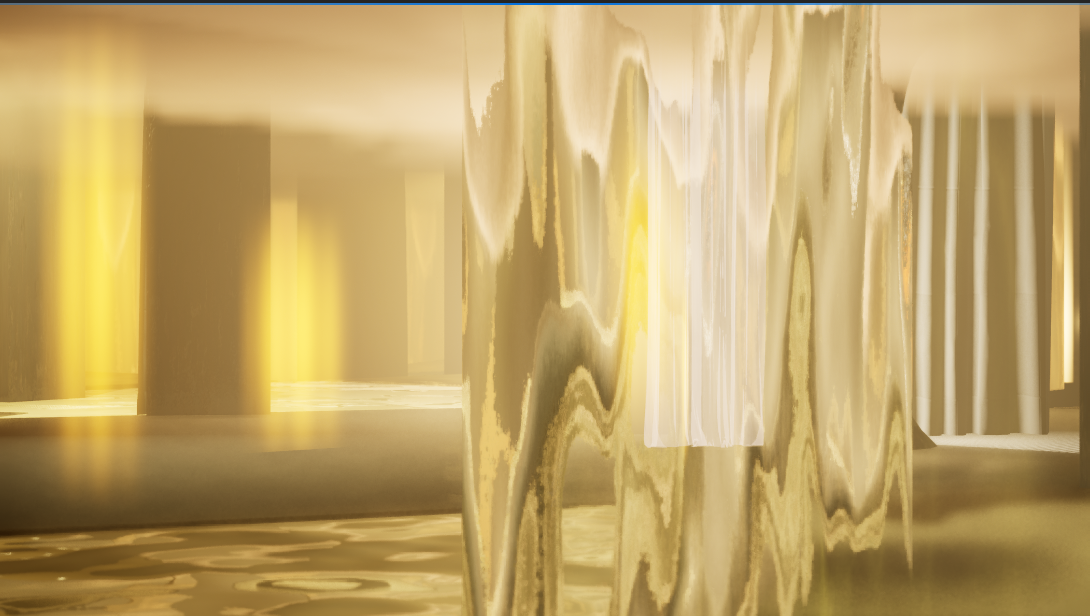
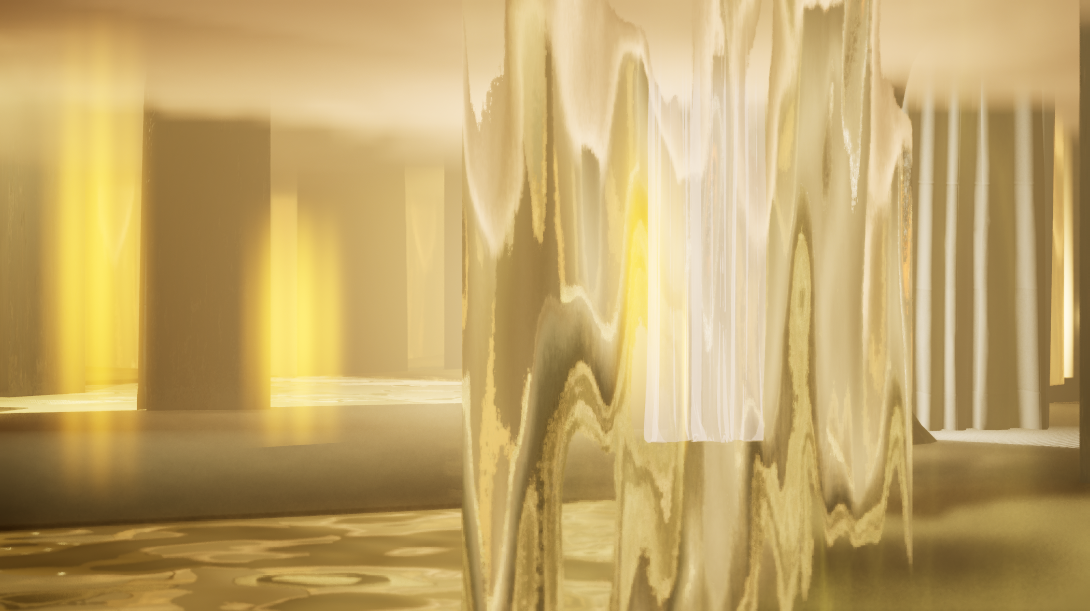
Polish light/dark UI and refresh portfolio header.
Soften light-mode colors, fix thumbnail framing, improve mobile header layout, and update About tools.

diff --git a/index.html b/index.html
@@ -27,27 +27,27 @@
 	<body>
 		<header class="site-header" role="banner">
 			<div class="container">
-				<h1 class="site-title">Christina Cappelli</h1>
-				<div class="header-right">
+				<div class="header-brand">
+					<h1 class="site-title">Christina Cappelli</h1>
 					<p class="site-tagline">
 						<a href="index.html" class="is-active">Creative Technologist</a>
 						<!-- <a href="design.html">Designer</a> -->
 					</p>
-					<button
-						type="button"
-						class="theme-toggle"
-						aria-label="Toggle light and dark mode"
-						title="Toggle theme"
-					>
-						<svg class="icon-moon" viewBox="0 0 24 24" aria-hidden="true" fill="none" stroke="currentColor" stroke-width="1.8" stroke-linecap="round" stroke-linejoin="round">
-							<path d="M21 14.5A8.5 8.5 0 0 1 9.5 3 7 7 0 1 0 21 14.5z"></path>
-						</svg>
-						<svg class="icon-sun" viewBox="0 0 24 24" aria-hidden="true" fill="none" stroke="currentColor" stroke-width="1.8" stroke-linecap="round" stroke-linejoin="round">
-							<circle cx="12" cy="12" r="4"></circle>
-							<path d="M12 2v2M12 20v2M4.9 4.9l1.4 1.4M17.7 17.7l1.4 1.4M2 12h2M20 12h2M4.9 19.1l1.4-1.4M17.7 6.3l1.4-1.4"></path>
-						</svg>
-					</button>
 				</div>
+				<button
+					type="button"
+					class="theme-toggle"
+					aria-label="Toggle light and dark mode"
+					title="Toggle theme"
+				>
+					<svg class="icon-moon" viewBox="0 0 24 24" aria-hidden="true" fill="none" stroke="currentColor" stroke-width="1.8" stroke-linecap="round" stroke-linejoin="round">
+						<path d="M21 14.5A8.5 8.5 0 0 1 9.5 3 7 7 0 1 0 21 14.5z"></path>
+					</svg>
+					<svg class="icon-sun" viewBox="0 0 24 24" aria-hidden="true" fill="none" stroke="currentColor" stroke-width="1.8" stroke-linecap="round" stroke-linejoin="round">
+						<circle cx="12" cy="12" r="4"></circle>
+						<path d="M12 2v2M12 20v2M4.9 4.9l1.4 1.4M17.7 17.7l1.4 1.4M2 12h2M20 12h2M4.9 19.1l1.4-1.4M17.7 6.3l1.4-1.4"></path>
+					</svg>
+				</button>
 			</div>
 		</header>
 
@@ -91,7 +91,7 @@
 
 				<!-- IMAGINARY SPACES -->
 				<article class="project-card clickable-thumb" data-project="imaginary_spaces">
-					<div class="thumb" aria-hidden="true" style="background-image: url('./Tech/imaginary spaces_liveVR/environments/live/cineCam3.png');"></div>
+					<div class="thumb" aria-hidden="true" style="background-image: url('./Tech/imaginary%20spaces_liveVR/environments/live/cineCam3.png?v=2');"></div>
 					<h3 class="project-title">Imaginary Spaces</h3>
 					<p class="project-desc">In-progress Unreal world-building for live performance and VR — process studies in environment, camera, and light.</p>
 					<ul class="project-tags">
@@ -251,7 +251,7 @@
 					My work explores obscured architectures of life and investigates how unseen systems shape perception through research-driven, speculative approaches. Using generative processes, computation, and mixed media, I focus on patterns we tend to overlook—those buried in scale, hidden in plain sight, or unfamiliar by nature.
 				</p>
 				<p>
-					With a background in media production, photography, and technology, I approach storytelling through both visual fluency and systems thinking. My tools range from JavaScript, TouchDesigner, and generative AI to hands-on methods like material exploration, rapid prototyping, and mixed media construction. By taking an interdisciplinary approach, I turn abstract research into something people can move through, sense, and interpret for themselves—bridging technical concepts with lived experience.
+					With a background in media production, photography, and technology, I approach storytelling through both visual fluency and systems thinking. My tools range from JavaScript, TouchDesigner, Unreal Engine 5, and Blender to hands-on methods like material exploration, rapid prototyping, and mixed media construction. By taking an interdisciplinary approach, I turn abstract research into something people can move through, sense, and interpret for themselves—bridging technical concepts with lived experience.
 				</p>
 				<p>
 					My work has been supported by the National Science Foundation, NYU’s Entrepreneurial Institute, and the NYC Future Manufacturing Collective, and presented through platforms at the Berggruen Institute, Genspace, and New York University. Alongside my studio practice, I’ve worked as a photographer on international campaigns across England, Ireland, and Spain, and produced content for television networks like Lifetime, Travel Channel, and MTV.

diff --git a/production.html b/production.html
@@ -27,28 +27,28 @@
 	<body>
 	<header class="site-header" role="banner">
 			<div class="container">
-				<h1 class="site-title"><a href="index.html">Christina Cappelli</a></h1>
-				<div class="header-right">
+				<div class="header-brand">
+					<h1 class="site-title"><a href="index.html">Christina Cappelli</a></h1>
 					<p class="site-tagline">
 						<a href="index.html">Technologist</a> |
 						<a href="production.html" class="is-active" style="color: blue;">Producer</a>
 						<!-- <a href="design.html">Designer</a> -->
 					</p>
-					<button
-						type="button"
-						class="theme-toggle"
-						aria-label="Toggle light and dark mode"
-						title="Toggle theme"
-					>
-						<svg class="icon-moon" viewBox="0 0 24 24" aria-hidden="true" fill="none" stroke="currentColor" stroke-width="1.8" stroke-linecap="round" stroke-linejoin="round">
-							<path d="M21 14.5A8.5 8.5 0 0 1 9.5 3 7 7 0 1 0 21 14.5z"></path>
-						</svg>
-						<svg class="icon-sun" viewBox="0 0 24 24" aria-hidden="true" fill="none" stroke="currentColor" stroke-width="1.8" stroke-linecap="round" stroke-linejoin="round">
-							<circle cx="12" cy="12" r="4"></circle>
-							<path d="M12 2v2M12 20v2M4.9 4.9l1.4 1.4M17.7 17.7l1.4 1.4M2 12h2M20 12h2M4.9 19.1l1.4-1.4M17.7 6.3l1.4-1.4"></path>
-						</svg>
-					</button>
 				</div>
+				<button
+					type="button"
+					class="theme-toggle"
+					aria-label="Toggle light and dark mode"
+					title="Toggle theme"
+				>
+					<svg class="icon-moon" viewBox="0 0 24 24" aria-hidden="true" fill="none" stroke="currentColor" stroke-width="1.8" stroke-linecap="round" stroke-linejoin="round">
+						<path d="M21 14.5A8.5 8.5 0 0 1 9.5 3 7 7 0 1 0 21 14.5z"></path>
+					</svg>
+					<svg class="icon-sun" viewBox="0 0 24 24" aria-hidden="true" fill="none" stroke="currentColor" stroke-width="1.8" stroke-linecap="round" stroke-linejoin="round">
+						<circle cx="12" cy="12" r="4"></circle>
+						<path d="M12 2v2M12 20v2M4.9 4.9l1.4 1.4M17.7 17.7l1.4 1.4M2 12h2M20 12h2M4.9 19.1l1.4-1.4M17.7 6.3l1.4-1.4"></path>
+					</svg>
+				</button>
 			</div>
 		</header>
 

diff --git a/design.html b/design.html
@@ -27,28 +27,28 @@
 	<body>
 		<header class="site-header" role="banner">
 			<div class="container">
-				<h1 class="site-title"><a href="index.html">Christina Cappelli</a></h1>
-				<div class="header-right">
+				<div class="header-brand">
+					<h1 class="site-title"><a href="index.html">Christina Cappelli</a></h1>
 					<p class="site-tagline">
 						<a href="index.html">Technologist</a> |
 						<a href="production.html">Producer</a> |
 						<a href="design.html" class="is-active" style="color: red;">Designer</a>
 					</p>
-					<button
-						type="button"
-						class="theme-toggle"
-						aria-label="Toggle light and dark mode"
-						title="Toggle theme"
-					>
-						<svg class="icon-moon" viewBox="0 0 24 24" aria-hidden="true" fill="none" stroke="currentColor" stroke-width="1.8" stroke-linecap="round" stroke-linejoin="round">
-							<path d="M21 14.5A8.5 8.5 0 0 1 9.5 3 7 7 0 1 0 21 14.5z"></path>
-						</svg>
-						<svg class="icon-sun" viewBox="0 0 24 24" aria-hidden="true" fill="none" stroke="currentColor" stroke-width="1.8" stroke-linecap="round" stroke-linejoin="round">
-							<circle cx="12" cy="12" r="4"></circle>
-							<path d="M12 2v2M12 20v2M4.9 4.9l1.4 1.4M17.7 17.7l1.4 1.4M2 12h2M20 12h2M4.9 19.1l1.4-1.4M17.7 6.3l1.4-1.4"></path>
-						</svg>
-					</button>
 				</div>
+				<button
+					type="button"
+					class="theme-toggle"
+					aria-label="Toggle light and dark mode"
+					title="Toggle theme"
+				>
+					<svg class="icon-moon" viewBox="0 0 24 24" aria-hidden="true" fill="none" stroke="currentColor" stroke-width="1.8" stroke-linecap="round" stroke-linejoin="round">
+						<path d="M21 14.5A8.5 8.5 0 0 1 9.5 3 7 7 0 1 0 21 14.5z"></path>
+					</svg>
+					<svg class="icon-sun" viewBox="0 0 24 24" aria-hidden="true" fill="none" stroke="currentColor" stroke-width="1.8" stroke-linecap="round" stroke-linejoin="round">
+						<circle cx="12" cy="12" r="4"></circle>
+						<path d="M12 2v2M12 20v2M4.9 4.9l1.4 1.4M17.7 17.7l1.4 1.4M2 12h2M20 12h2M4.9 19.1l1.4-1.4M17.7 6.3l1.4-1.4"></path>
+					</svg>
+				</button>
 			</div>
 		</header>
 

diff --git a/style.css b/style.css
@@ -67,16 +67,16 @@
 * { box-sizing: border-box; }
 html, body { height: 100%; }
 :root {
-	--bg: #fafafa; 
-	--surface: #ffffff;
+	--bg: #e6e3dc;
+	--surface: #efece6;
 	--text: #151515; 
 	--muted: #666666;
 	--accent: #111111;
-	--line: rgba(0,0,0,0.08);
+	--line: rgba(0,0,0,0.1);
 	--radius: 8px;
 	--hover-line: rgba(0,0,0,0.18);
-	--theme-toggle-bg: rgba(0,0,0,0.04);
-	--theme-toggle-hover: rgba(0,0,0,0.08);
+	--theme-toggle-bg: rgba(0,0,0,0.05);
+	--theme-toggle-hover: rgba(0,0,0,0.09);
 }
 
 [data-theme="dark"] {
@@ -174,21 +174,28 @@ body {
 	gap: 16px;
 	padding: 22px 16px;
 }
+.header-brand {
+	display: flex;
+	align-items: baseline;
+	justify-content: space-between;
+	flex: 1;
+	min-width: 0;
+	gap: 16px;
+}
 .site-title {
 	margin: 0;
 	font-size: clamp(1.25rem, 2.5vw, 1.75rem);
 	letter-spacing: 0.2px;
 }
-.header-right {
-	display: flex;
-	align-items: center;
-	gap: 14px;
-	margin-left: auto;
+.site-title a {
+	color: inherit;
+	text-decoration: none;
 }
 .site-tagline {
 	margin: 0;
 	color: var(--muted);
 	font-size: 0.95rem;
+	text-align: right;
 }
 .site-tagline a {
 	color: inherit;
@@ -197,6 +204,24 @@ body {
 .site-tagline a.is-active {
 	font-weight: 450;
 	color: var(--text);
+}
+
+@media (max-width: 720px) {
+	.site-header .container {
+		align-items: flex-start;
+	}
+	.header-brand {
+		flex-direction: column;
+		align-items: flex-start;
+		gap: 4px;
+	}
+	.site-tagline {
+		text-align: left;
+		font-size: 0.9rem;
+	}
+	.theme-toggle {
+		margin-top: 2px;
+	}
 }
 
 .theme-toggle {
@@ -310,11 +335,11 @@ body {
 }
 .thumb {
 	border-radius: calc(var(--radius) - 4px);
-	background: #f2f2f2;
+	background-color: var(--surface);
 	background-size: cover;
 	background-position: center;
 	background-repeat: no-repeat;
-	border: 1px solid var(--line);
+	border: none;
 }
 .project-title {
 	margin: 0;
